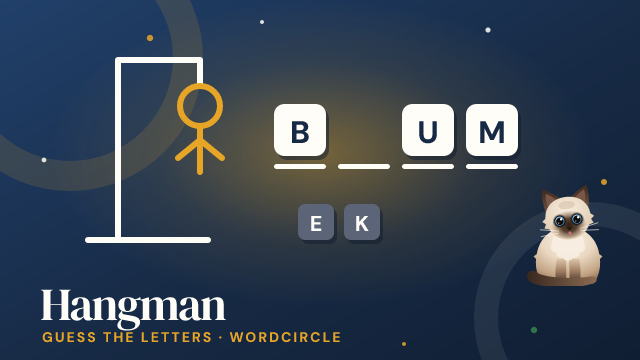
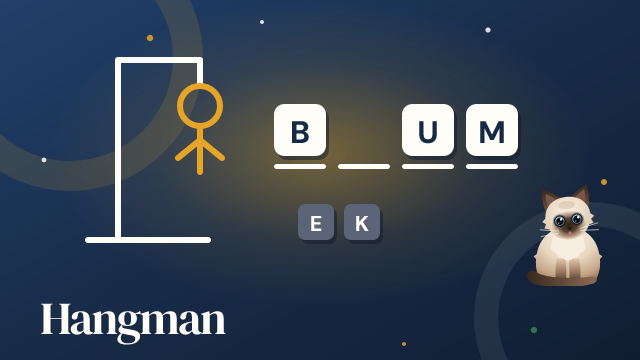
chore(bot): game pictures show only the game's name, without a tagline

Changed region(s): [[0.0625, 0.7944, 0.5312, 0.9778]]

diff --git a/scripts/brand-games.ts b/scripts/brand-games.ts
@@ -39,9 +39,9 @@ function tile(letter: string, x: number, y: number, size: number, fill = CREAM, 
   return `<g transform="translate(${x} ${y}) rotate(${angle})"><rect x="${-size / 2 + 3}" y="${-size / 2 + 4}" width="${size}" height="${size}" rx="${size * 0.2}" fill="#0e1b2e" opacity=".5"/><rect x="${-size / 2}" y="${-size / 2}" width="${size}" height="${size}" rx="${size * 0.2}" fill="${fill}"/>${letter ? `<text y="${size * 0.25}" text-anchor="middle" font-family="DM Sans 9pt" font-weight="800" font-size="${size * 0.6}" fill="${ink}">${letter}</text>` : ''}</g>`;
 }
 
-function title(text: string, subtitle: string): string {
-  return `<text x="40" y="320" font-family="DM Serif Display" font-size="46" letter-spacing="-1.5" fill="${CREAM}">${text}</text>
-<text x="42" y="342" font-family="DM Sans 9pt" font-weight="800" font-size="14" letter-spacing="2" fill="${GOLD}">${subtitle}</text>`;
+// Just the game's name: Telegram shows the description right under the picture.
+function title(text: string): string {
+  return `<text x="40" y="334" font-family="DM Serif Display" font-size="46" letter-spacing="-1.5" fill="${CREAM}">${text}</text>`;
 }
 
 const frame = (body: string) => `<svg xmlns="http://www.w3.org/2000/svg" viewBox="0 0 640 360" width="640" height="360">${backdrop()}${body}</svg>`;
@@ -59,7 +59,7 @@ function wordleSvg(): string {
   const left = 320 - (5 * size + 4 * gap) / 2 + size / 2;
   const tiles = rows.flatMap((row, r) => row.map(([letter, fill], c) => tile(letter, left + c * (size + gap), 70 + r * (size + gap), size, fill, CREAM))).join('');
   const empty = [0, 1, 2, 3, 4].map((c) => `<rect x="${left + c * (size + gap) - size / 2}" y="${70 + 3 * (size + gap) - size / 2}" width="${size}" height="${size}" rx="${size * 0.2}" fill="none" stroke="${CREAM}" stroke-opacity=".35" stroke-width="2"/>`).join('');
-  return frame(`${tiles}${empty}${lilith(486, 150, 112)}${title('Wordle', 'GUESS THE WORD · WORDCIRCLE')}`);
+  return frame(`${tiles}${empty}${lilith(486, 150, 112)}${title('Wordle')}`);
 }
 
 // The gallows half drawn, a word half guessed and two letters already tried.
@@ -69,7 +69,7 @@ function hangmanSvg(): string {
   const size = 52;
   const word = letters.map((letter, index) => `${letter ? tile(letter, 300 + index * 64, 130, size) : ''}<rect x="${300 + index * 64 - size / 2}" y="${130 + size / 2 + 8}" width="${size}" height="5" rx="2.5" fill="${CREAM}"/>`).join('');
   const tried = ['E', 'K'].map((letter, index) => tile(letter, 316 + index * 46, 222, 36, '#5b6577', CREAM)).join('');
-  return frame(`${gallows}${word}${tried}${lilith(520, 166, 96)}${title('Hangman', 'GUESS THE LETTERS · WORDCIRCLE')}`);
+  return frame(`${gallows}${word}${tried}${lilith(520, 166, 96)}${title('Hangman')}`);
 }
 
 // A quiz card with the word and three answers, the right one ticked, and a run of first tries.
@@ -81,7 +81,7 @@ function vocabSvg(): string {
     return `<rect x="200" y="${y}" width="240" height="34" rx="17" fill="${right ? GREEN : '#2a4466'}" stroke="${right ? '#7fd197' : CREAM}" stroke-opacity="${right ? 1 : 0.25}" stroke-width="2"/><text x="${right ? 300 : 320}" y="${y + 23}" text-anchor="middle" font-family="DM Sans 9pt" font-weight="800" font-size="17" fill="${CREAM}">${text}</text>${right ? `<path d="M392 ${y + 17}l8 8 16-16" fill="none" stroke="${CREAM}" stroke-width="4" stroke-linecap="round" stroke-linejoin="round"/>` : ''}`;
   }).join('');
   const run = `<g transform="translate(560 70)"><circle r="34" fill="${RED}"/><path d="M0-22c10 12 16 20 16 30a16 16 0 0 1-32 0c0-7 4-12 8-16 0 6 3 9 6 9 0-9-2-15 2-23Z" fill="${GOLD}"/><text y="58" text-anchor="middle" font-family="DM Sans 9pt" font-weight="800" font-size="18" fill="${CREAM}">×12</text></g>`;
-  return frame(`${card}${choices}${run}${lilith(36, 120, 104)}${title('Word quiz', 'FIRST TRIES IN A ROW · WORDCIRCLE')}`);
+  return frame(`${card}${choices}${run}${lilith(36, 120, 104)}${title('Word quiz')}`);
 }
 
 async function font(dir: string, path: string, name: string): Promise<string> {
